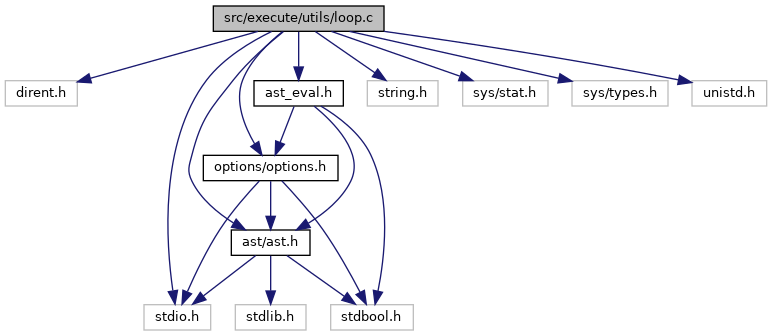
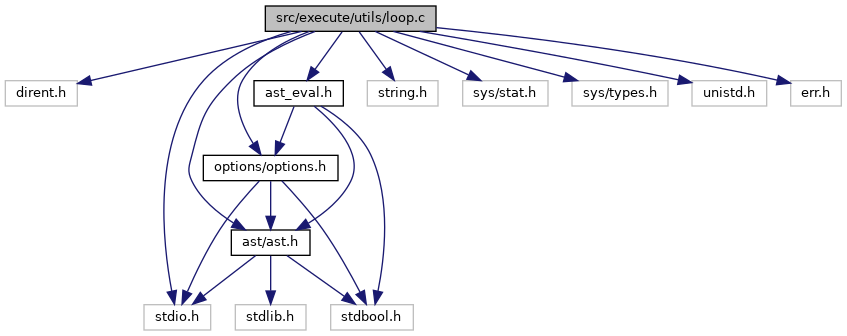
deploy: f482b620b7b3c965a5b89536b5a3ff274e9df67f

Changed region(s): [[0.1554, 0.0, 0.9948, 1.0], [0.0, 0.2083, 0.1554, 0.2976], [0.1865, 0.3571, 0.2176, 0.4167]]

diff --git a/ast__eval_8h_source.html b/ast__eval_8h_source.html
@@ -111,15 +111,15 @@ $(function() {
 <div class="line"><a name="l00108"></a><span class="lineno">  108</span>&#160;<span class="preprocessor">#endif </span><span class="comment">/* AST_EVAL_H */</span><span class="preprocessor"></span></div>
 <div class="ttc" id="aast_8h_html"><div class="ttname"><a href="ast_8h.html">ast.h</a></div><div class="ttdoc">Represent a node of the AST.</div></div>
 <div class="ttc" id="aast__eval_8h_html_a030d7992e9b29a7396611a9719b64e84"><div class="ttname"><a href="ast__eval_8h.html#a030d7992e9b29a7396611a9719b64e84">free_variables</a></div><div class="ttdeci">void free_variables()</div><div class="ttdoc">Use for Free Hash Map Variables at the end of the program.</div><div class="ttdef"><b>Definition:</b> ast_variable.c:52</div></div>
-<div class="ttc" id="aast__eval_8h_html_a18577bcabab70d7a082596836de82ed4"><div class="ttname"><a href="ast__eval_8h.html#a18577bcabab70d7a082596836de82ed4">until_loop</a></div><div class="ttdeci">int until_loop(struct ast_node *node)</div><div class="ttdoc">Evaluate the until loop.</div><div class="ttdef"><b>Definition:</b> loop.c:30</div></div>
+<div class="ttc" id="aast__eval_8h_html_a18577bcabab70d7a082596836de82ed4"><div class="ttname"><a href="ast__eval_8h.html#a18577bcabab70d7a082596836de82ed4">until_loop</a></div><div class="ttdeci">int until_loop(struct ast_node *node)</div><div class="ttdoc">Evaluate the until loop.</div><div class="ttdef"><b>Definition:</b> loop.c:31</div></div>
 <div class="ttc" id="aast__eval_8h_html_a22d063d68044368c6619829019e3079c"><div class="ttname"><a href="ast__eval_8h.html#a22d063d68044368c6619829019e3079c">handle_word</a></div><div class="ttdeci">char * handle_word(struct ast_node *node)</div><div class="ttdoc">Handle word assignment.</div><div class="ttdef"><b>Definition:</b> ast_variable.c:134</div></div>
 <div class="ttc" id="aast__eval_8h_html_a7f9d242dd08ee9271f0f1e7a9169286e"><div class="ttname"><a href="ast__eval_8h.html#a7f9d242dd08ee9271f0f1e7a9169286e">redir_manager</a></div><div class="ttdeci">int redir_manager(struct ast_node *ast, int *save_fd, int *fd_dup)</div><div class="ttdef"><b>Definition:</b> redirections.c:141</div></div>
 <div class="ttc" id="aast__eval_8h_html_a84a9d5e8cc21e072e54b7a15859c32b9"><div class="ttname"><a href="ast__eval_8h.html#a84a9d5e8cc21e072e54b7a15859c32b9">match_ast</a></div><div class="ttdeci">int match_ast(struct ast_node *node)</div><div class="ttdoc">Evaluate the given AST.</div><div class="ttdef"><b>Definition:</b> ast_eval.c:180</div></div>
 <div class="ttc" id="aast__eval_8h_html_a8b632a603f52b28785f96b44942524fd"><div class="ttname"><a href="ast__eval_8h.html#a8b632a603f52b28785f96b44942524fd">ast_and_or</a></div><div class="ttdeci">int ast_and_or(struct ast_node *node)</div><div class="ttdoc">Evaluate and_or.</div><div class="ttdef"><b>Definition:</b> pipeline.c:76</div></div>
 <div class="ttc" id="aast__eval_8h_html_aa0e14bb212f89e7d006317dd4f0279cf"><div class="ttname"><a href="ast__eval_8h.html#aa0e14bb212f89e7d006317dd4f0279cf">pipeline_eval</a></div><div class="ttdeci">int pipeline_eval(struct ast_node *node)</div><div class="ttdoc">Pipeline evaluation.</div><div class="ttdef"><b>Definition:</b> pipeline.c:17</div></div>
-<div class="ttc" id="aast__eval_8h_html_ab7e563c2a398eea9df1f9ff8aca255e3"><div class="ttname"><a href="ast__eval_8h.html#ab7e563c2a398eea9df1f9ff8aca255e3">while_loop</a></div><div class="ttdeci">int while_loop(struct ast_node *node)</div><div class="ttdoc">Evaluate the while loop.</div><div class="ttdef"><b>Definition:</b> loop.c:20</div></div>
+<div class="ttc" id="aast__eval_8h_html_ab7e563c2a398eea9df1f9ff8aca255e3"><div class="ttname"><a href="ast__eval_8h.html#ab7e563c2a398eea9df1f9ff8aca255e3">while_loop</a></div><div class="ttdeci">int while_loop(struct ast_node *node)</div><div class="ttdoc">Evaluate the while loop.</div><div class="ttdef"><b>Definition:</b> loop.c:21</div></div>
 <div class="ttc" id="aast__eval_8h_html_ac00bde99f4b848166699ad9c8c474fd2"><div class="ttname"><a href="ast__eval_8h.html#ac00bde99f4b848166699ad9c8c474fd2">ast_command</a></div><div class="ttdeci">int ast_command(struct ast_node *node)</div><div class="ttdoc">Evaluate command from ast.</div><div class="ttdef"><b>Definition:</b> ast_eval.c:87</div></div>
-<div class="ttc" id="aast__eval_8h_html_ae9b3b63a3424cd52399404843f283707"><div class="ttname"><a href="ast__eval_8h.html#ae9b3b63a3424cd52399404843f283707">for_loop</a></div><div class="ttdeci">int for_loop(struct ast_node *node)</div><div class="ttdoc">Evaluate the for loop.</div><div class="ttdef"><b>Definition:</b> loop.c:158</div></div>
+<div class="ttc" id="aast__eval_8h_html_ae9b3b63a3424cd52399404843f283707"><div class="ttname"><a href="ast__eval_8h.html#ae9b3b63a3424cd52399404843f283707">for_loop</a></div><div class="ttdeci">int for_loop(struct ast_node *node)</div><div class="ttdoc">Evaluate the for loop.</div><div class="ttdef"><b>Definition:</b> loop.c:138</div></div>
 <div class="ttc" id="aast__eval_8h_html_af666000d4ecb31d958a1ca02cd339f33"><div class="ttname"><a href="ast__eval_8h.html#af666000d4ecb31d958a1ca02cd339f33">set_variable</a></div><div class="ttdeci">void set_variable(char *key, char *value)</div><div class="ttdoc">Set variable.</div><div class="ttdef"><b>Definition:</b> ast_variable.c:63</div></div>
 <div class="ttc" id="aast__eval_8h_html_afa75d17780a2e39cd62cadde06fc300c"><div class="ttname"><a href="ast__eval_8h.html#afa75d17780a2e39cd62cadde06fc300c">ast_eval_assignment</a></div><div class="ttdeci">int ast_eval_assignment(struct ast_node *node)</div><div class="ttdoc">Evaluate the ast assignement.</div><div class="ttdef"><b>Definition:</b> ast_variable.c:116</div></div>
 <div class="ttc" id="aoptions_8h_html"><div class="ttname"><a href="options_8h.html">options.h</a></div><div class="ttdoc">Header for options functions.</div></div>

diff --git a/loop_8c.html b/loop_8c.html
@@ -81,6 +81,7 @@ $(function() {
 <code>#include &lt;sys/stat.h&gt;</code><br />
 <code>#include &lt;sys/types.h&gt;</code><br />
 <code>#include &lt;unistd.h&gt;</code><br />
+<code>#include &lt;err.h&gt;</code><br />
 <code>#include &quot;<a class="el" href="ast_8h_source.html">ast/ast.h</a>&quot;</code><br />
 <code>#include &quot;<a class="el" href="ast__eval_8h_source.html">ast_eval.h</a>&quot;</code><br />
 <code>#include &quot;<a class="el" href="options_8h_source.html">options/options.h</a>&quot;</code><br />
@@ -89,13 +90,14 @@ Include dependency graph for loop.c:</div>
 <div class="dyncontent">
 <div class="center"><img src="loop_8c__incl.png" border="0" usemap="#asrc_2execute_2utils_2loop_8c" alt=""/></div>
 <map name="asrc_2execute_2utils_2loop_8c" id="asrc_2execute_2utils_2loop_8c">
-<area shape="rect" title="Loop functions." alt="" coords="213,5,384,32"/>
+<area shape="rect" title="Loop functions." alt="" coords="265,5,436,32"/>
 <area shape="rect" title=" " alt="" coords="5,80,77,107"/>
 <area shape="rect" title=" " alt="" coords="144,304,211,331"/>
 <area shape="rect" title=" " alt="" coords="367,80,438,107"/>
 <area shape="rect" title=" " alt="" coords="463,80,548,107"/>
 <area shape="rect" title=" " alt="" coords="572,80,668,107"/>
 <area shape="rect" title=" " alt="" coords="692,80,767,107"/>
+<area shape="rect" title=" " alt="" coords="791,80,841,107"/>
 <area shape="rect" href="ast_8h.html" title="Represent a node of the AST." alt="" coords="231,229,310,256"/>
 <area shape="rect" href="ast__eval_8h.html" title="Evaluate the AST." alt="" coords="254,80,343,107"/>
 <area shape="rect" href="options_8h.html" title="Header for options functions." alt="" coords="203,155,338,181"/>
@@ -118,8 +120,8 @@ Functions</h2></td></tr>
 <tr class="separator:a862052e6e0a00306c5e94f07cd5ac85a"><td class="memSeparator" colspan="2">&#160;</td></tr>
 <tr class="memitem:a107a6dffcbce55ab24400fdd4b7ec870"><td class="memItemLeft" align="right" valign="top">int&#160;</td><td class="memItemRight" valign="bottom"><a class="el" href="loop_8c.html#a107a6dffcbce55ab24400fdd4b7ec870">case_number</a> (struct <a class="el" href="structast__node.html">ast_node</a> *node, int index)</td></tr>
 <tr class="separator:a107a6dffcbce55ab24400fdd4b7ec870"><td class="memSeparator" colspan="2">&#160;</td></tr>
-<tr class="memitem:aa2d4a3c713b432b2d971b2d276d3fa2a"><td class="memItemLeft" align="right" valign="top">int&#160;</td><td class="memItemRight" valign="bottom"><a class="el" href="loop_8c.html#aa2d4a3c713b432b2d971b2d276d3fa2a">isDirectory</a> (const char *path)</td></tr>
-<tr class="separator:aa2d4a3c713b432b2d971b2d276d3fa2a"><td class="memSeparator" colspan="2">&#160;</td></tr>
+<tr class="memitem:ad39f7e90940057a732371bfee6135a8d"><td class="memItemLeft" align="right" valign="top">int&#160;</td><td class="memItemRight" valign="bottom"><a class="el" href="loop_8c.html#ad39f7e90940057a732371bfee6135a8d">isDirectory</a> (char *path)</td></tr>
+<tr class="separator:ad39f7e90940057a732371bfee6135a8d"><td class="memSeparator" colspan="2">&#160;</td></tr>
 <tr class="memitem:af59b05c38b814a525d20a40eaf1b058e"><td class="memItemLeft" align="right" valign="top">int&#160;</td><td class="memItemRight" valign="bottom"><a class="el" href="loop_8c.html#af59b05c38b814a525d20a40eaf1b058e">case_directory</a> (struct <a class="el" href="structast__node.html">ast_node</a> *node, int i)</td></tr>
 <tr class="separator:af59b05c38b814a525d20a40eaf1b058e"><td class="memSeparator" colspan="2">&#160;</td></tr>
 <tr class="memitem:ae9b3b63a3424cd52399404843f283707"><td class="memItemLeft" align="right" valign="top">int&#160;</td><td class="memItemRight" valign="bottom"><a class="el" href="loop_8c.html#ae9b3b63a3424cd52399404843f283707">for_loop</a> (struct <a class="el" href="structast__node.html">ast_node</a> *node)</td></tr>
@@ -243,8 +245,8 @@ Functions</h2></td></tr>
 
 </div>
 </div>
-<a id="aa2d4a3c713b432b2d971b2d276d3fa2a"></a>
-<h2 class="memtitle"><span class="permalink"><a href="#aa2d4a3c713b432b2d971b2d276d3fa2a">&#9670;&nbsp;</a></span>isDirectory()</h2>
+<a id="ad39f7e90940057a732371bfee6135a8d"></a>
+<h2 class="memtitle"><span class="permalink"><a href="#ad39f7e90940057a732371bfee6135a8d">&#9670;&nbsp;</a></span>isDirectory()</h2>
 
 <div class="memitem">
 <div class="memproto">
@@ -252,7 +254,7 @@ Functions</h2></td></tr>
         <tr>
           <td class="memname">int isDirectory </td>
           <td>(</td>
-          <td class="paramtype">const char *&#160;</td>
+          <td class="paramtype">char *&#160;</td>
           <td class="paramname"><em>path</em></td><td>)</td>
           <td></td>
         </tr>

diff --git a/search/functions_8.js b/search/functions_8.js
@@ -6,6 +6,6 @@ var searchData=
   ['io_5fbackend_5fmanager_345',['io_backend_manager',['../io__backend_8c.html#a788bd64a0788bda2a20af433bd47157c',1,'io_backend_manager(int argc, char **argv):&#160;io_backend.c'],['../io__backend_8h.html#a788bd64a0788bda2a20af433bd47157c',1,'io_backend_manager(int argc, char **argv):&#160;io_backend.c']]],
   ['io_5fbackend_5fstdin_346',['io_backend_stdin',['../io__backend_8c.html#a1da7265d3965d24d045e96da0e253eaf',1,'io_backend.c']]],
   ['is_5fnumber_347',['is_number',['../options_8c.html#aa5dda8dfb7843e3379779c346c3c905d',1,'is_number(char *str):&#160;options.c'],['../options_8h.html#aa5dda8dfb7843e3379779c346c3c905d',1,'is_number(char *str):&#160;options.c']]],
-  ['isdirectory_348',['isDirectory',['../loop_8c.html#aa2d4a3c713b432b2d971b2d276d3fa2a',1,'loop.c']]],
+  ['isdirectory_348',['isDirectory',['../loop_8c.html#ad39f7e90940057a732371bfee6135a8d',1,'loop.c']]],
   ['isvalidpattern_349',['isValidPattern',['../loop_8c.html#a862052e6e0a00306c5e94f07cd5ac85a',1,'loop.c']]]
 ];

diff --git a/search/all_9.js b/search/all_9.js
@@ -10,6 +10,6 @@ var searchData=
   ['io_5fbackend_5fstdin_116',['io_backend_stdin',['../io__backend_8c.html#a1da7265d3965d24d045e96da0e253eaf',1,'io_backend.c']]],
   ['io_5fbackend_5ftests_2ec_117',['io_backend_tests.c',['../io__backend__tests_8c.html',1,'']]],
   ['is_5fnumber_118',['is_number',['../options_8c.html#aa5dda8dfb7843e3379779c346c3c905d',1,'is_number(char *str):&#160;options.c'],['../options_8h.html#aa5dda8dfb7843e3379779c346c3c905d',1,'is_number(char *str):&#160;options.c']]],
-  ['isdirectory_119',['isDirectory',['../loop_8c.html#aa2d4a3c713b432b2d971b2d276d3fa2a',1,'loop.c']]],
+  ['isdirectory_119',['isDirectory',['../loop_8c.html#ad39f7e90940057a732371bfee6135a8d',1,'loop.c']]],
   ['isvalidpattern_120',['isValidPattern',['../loop_8c.html#a862052e6e0a00306c5e94f07cd5ac85a',1,'loop.c']]]
 ];

diff --git a/globals_func_i.html b/globals_func_i.html
@@ -87,7 +87,7 @@ $(function() {
 , <a class="el" href="options_8h.html#aa5dda8dfb7843e3379779c346c3c905d">options.h</a>
 </li>
 <li>isDirectory()
-: <a class="el" href="loop_8c.html#aa2d4a3c713b432b2d971b2d276d3fa2a">loop.c</a>
+: <a class="el" href="loop_8c.html#ad39f7e90940057a732371bfee6135a8d">loop.c</a>
 </li>
 <li>isValidPattern()
 : <a class="el" href="loop_8c.html#a862052e6e0a00306c5e94f07cd5ac85a">loop.c</a>

diff --git a/globals_i.html b/globals_i.html
@@ -87,7 +87,7 @@ $(function() {
 , <a class="el" href="options_8h.html#aa5dda8dfb7843e3379779c346c3c905d">options.h</a>
 </li>
 <li>isDirectory()
-: <a class="el" href="loop_8c.html#aa2d4a3c713b432b2d971b2d276d3fa2a">loop.c</a>
+: <a class="el" href="loop_8c.html#ad39f7e90940057a732371bfee6135a8d">loop.c</a>
 </li>
 <li>isValidPattern()
 : <a class="el" href="loop_8c.html#a862052e6e0a00306c5e94f07cd5ac85a">loop.c</a>
